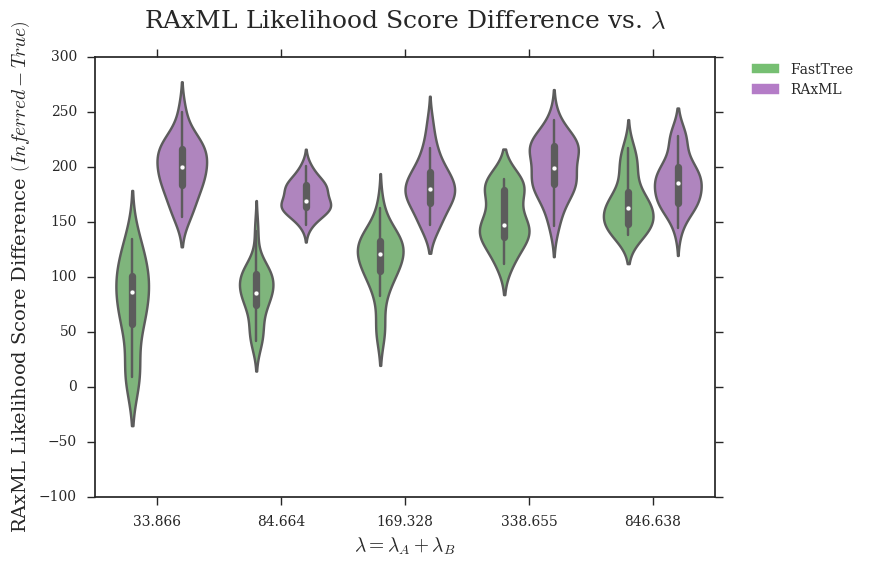
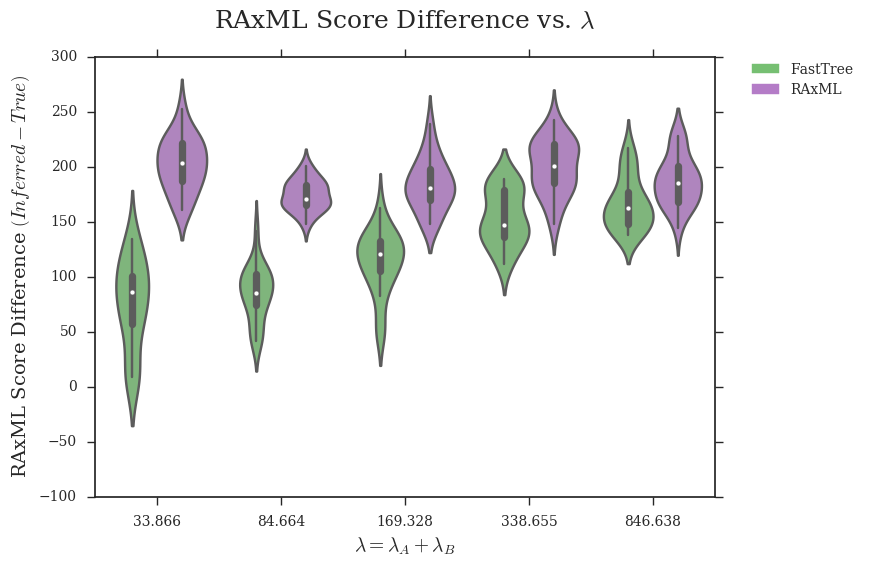
Updated RAxML Likelihood Score Deviation figures

diff --git a/figures/scripts/6_raxml-likelihood-deviation-vs-parameters.py b/figures/scripts/6_raxml-likelihood-deviation-vs-parameters.py
@@ -35,13 +35,21 @@ r_fasttree = {'r':np.array([-4]*20+[-3]*20+[-2]*20+[-1]*20+[0]*20), # values of 
                                [-80045.454382,-80691.369416,-77151.507529,-84483.376384,-78392.191461,-79755.328431,-76111.883486,-77798.040909,-84630.386992,-82338.517801,-82475.556949,-80995.341937,-78806.654744,-82782.442436,-82778.161703,-80263.010474,-81570.999846,-80845.823371,-80441.806887,-84458.295279]   # r = 1
              ).astype(float)}
 r_raxml    = {'r':np.array([-4]*20+[-3]*20+[-2]*20+[-1]*20+[0]*20), # values of r (log-scaled)
+              'score':np.array([-64721.118531,-64374.759635,-76751.227171,-72610.446826,-67594.413205,-57455.999083,-74447.766757,-57161.452022,-73559.603396,-63554.927398,-60768.286805,-75434.571043,-68836.895605,-66873.157844,-72310.605244,-64112.221652,-80655.075316,-83423.981678,-72083.686968,-62921.14995] +  # r = 0.0001
+                               [-70197.75659,-77672.788142,-74480.5435,-71220.830254,-82757.526842,-69038.2907,-68821.043778,-81837.156683,-69236.312505,-73632.042184,-75439.489958,-72318.280932,-79173.762461,-71202.972023,-66305.929894,-73388.038531,-65991.590621,-79191.490262,-77546.756299,-77974.196929] +      # r = 0.001
+                               [-80535.192689,-73708.555137,-75332.361563,-74363.440145,-75689.741194,-73647.046214,-77589.705993,-68823.151596,-71499.571642,-78178.398687,-75949.560934,-84141.145497,-74481.66217,-79535.633212,-73044.301514,-76489.717939,-73624.068722,-70395.752904,-75628.417073,-81903.404004] +  # r = 0.01
+                               [-79163.327471,-76877.435343,-79754.585095,-80945.659055,-76620.152123,-80705.572663,-77691.742937,-80921.987699,-83118.983772,-75333.03248,-81730.896906,-74455.106224,-77737.686571,-78947.331176,-74109.226138,-83140.986949,-78031.543064,-81133.10863,-74138.343013,-75970.671609] +   # r = 0.1
+                               [-80041.193787,-80679.089805,-77145.164752,-84475.727166,-78390.981748,-79752.291996,-76104.167932,-77791.669883,-84627.307431,-82329.920002,-82466.928424,-80987.146954,-78797.801663,-82779.995239,-82768.318115,-80255.160877,-81563.818961,-80843.583754,-80432.770488,-84453.658611]   # r = 1
+             ).astype(float)}
+''' # VALUES FROM ORIGINAL RAXML TREES
+r_raxml    = {'r':np.array([-4]*20+[-3]*20+[-2]*20+[-1]*20+[0]*20), # values of r (log-scaled)
               'score':np.array([-64721.123522,-64375.308287,-76753.16638,-72610.48708,-67594.68259,-57457.152769,-74448.298872,-57161.452933,-73559.726652,-63553.805094,-60768.778621,-75435.023477,-68837.252485,-66873.985752,-72311.386214,-64112.30155,-80656.405399,-83424.075889,-72084.048411,-62921.895435] +     # r = 0.0001
                                [-70198.908202,-77674.555776,-74482.185636,-71220.855048,-82756.81101,-69038.527378,-68821.517183,-81838.818829,-69236.778669,-73634.197678,-75439.87469,-72324.147845,-79173.911942,-71205.840826,-66306.337949,-73388.42564,-65992.910384,-79191.845619,-77547.584867,-77974.762763] +    # r = 0.001
                                [-80535.557878,-73709.223295,-75334.876586,-74364.00186,-75693.051161,-73647.04934,-77593.640422,-68823.667881,-71501.233427,-78180.634603,-75950.828564,-84141.871288,-74483.09165,-79536.665403,-73045.400995,-76491.495545,-73624.958121,-70396.163292,-75630.964197,-81905.377818] +    # r = 0.01
                                [-79165.853342,-76878.511177,-79754.732762,-80946.472116,-76620.272196,-80706.387436,-77692.609251,-80924.296321,-83119.187674,-75333.04282,-81730.900448,-74455.670464,-77738.742946,-78947.538768,-74109.486068,-83141.401584,-78032.315448,-81133.38351,-74142.241048,-75972.593998] +   # r = 0.1
                                [-80041.291094,-80679.097956,-77146.273308,-84475.955293,-78391.116292,-79752.310414,-76105.029005,-77792.020491,-84627.353748,-82330.094032,-82467.481243,-80987.659001,-78797.932904,-82780.043583,-82768.808954,-80255.213461,-81564.218094,-80843.851505,-80433.127156,-84453.686813]   # r = 1
              ).astype(float)}
-
+'''
 
 # modifying r = lambdaA/lambdaB (with constant lambda = lambdaA + lambdaB)
 r2_original = {'r':np.array([-4]*20+[-3]*20+[-2]*20+[-1]*20+[0]*20), # values of r (log-scaled)
@@ -59,12 +67,21 @@ r2_fasttree = {'r':np.array([-4]*20+[-3]*20+[-2]*20+[-1]*20+[0]*20), # values of
                                 [-21852.738817,-22907.328111,-22862.21704,-21128.228771,-22999.511221,-22637.67086,-21175.301628,-20593.212842,-22268.653821,-22283.529714,-22950.045663,-21860.162822,-22267.170094,-21853.311863,-22157.90734,-21892.851238,-22450.192316,-22280.072507,-21811.196995,-23555.628946]                          # r = 1
               ).astype(float)}
 r2_raxml    = {'r':np.array([-4]*20+[-3]*20+[-2]*20+[-1]*20+[0]*20), # values of r (log-scaled)
+               'score':np.array([-235574.741791,-249220.874747,-240638.447876,-238609.549095,-265516.697447,-246721.620519,-237464.350192,-235589.729779,-257556.012482,-250186.638542,-250470.247891,-239538.707691,-225549.414833,-231745.225374,-239917.56926,-260256.542401,-259022.367908,-225099.675647,-227206.98245,-233544.493987] +   # r = 0.0001
+                                [-135512.870199,-148569.683831,-153616.635783,-147979.178882,-151757.990618,-148382.101873,-144392.462023,-141407.571682,-155197.626815,-149286.610995,-163018.799323,-142453.61547,-139919.52801,-148068.460875,-140976.659163,-161010.157229,-141587.768279,-156459.791308,-149295.660669,-139265.744311] +   # r = 0.001
+                                [-80535.192689,-73708.555137,-75332.361563,-74363.440145,-75689.741194,-73647.046214,-77589.705993,-68823.151596,-71499.571642,-78178.398687,-75949.560934,-84141.145497,-74481.66217,-79535.633212,-73044.301514,-76489.717939,-73624.068722,-70395.752904,-75628.417073,-81903.404004] +                      # r = 0.01
+                                [-35763.119438,-32954.34694,-35793.695426,-33550.786635,-33558.806236,-32542.226895,-33699.236866,-35207.376367,-32282.648829,-33806.054587,-33332.956736,-37150.196243,-32407.699782,-35723.368844,-34690.343776,-34734.906041,-32841.618613,-33381.421215,-35889.948391,-34760.914439] +                      # r = 0.1
+                                [-21847.942429,-22905.408949,-22848.457282,-21126.413155,-23001.125475,-22639.385886,-21171.568869,-20593.213282,-22269.359852,-22278.964182,-22945.307356,-21852.783043,-22263.406008,-21851.436228,-22155.385409,-21888.75604,-22442.992448,-22276.462001,-21809.224968,-23552.572865]                        # r = 1
+              ).astype(float)}
+''' # VALUES FROM ORIGINAL RAXML TREES
+r2_raxml    = {'r':np.array([-4]*20+[-3]*20+[-2]*20+[-1]*20+[0]*20), # values of r (log-scaled)
                'score':np.array([-235580.946859,-249229.140054,-240641.432684,-238616.634205,-265524.222245,-246726.273561,-237468.393668,-235593.241418,-257562.957926,-250195.206504,-250478.523172,-239549.614943,-225552.719327,-231751.826368,-239922.620689,-260261.133918,-259024.463547,-225105.912546,-227212.282473,-233547.822149] + # r = 0.0001
                                 [-135514.92689,-148571.046519,-153620.648384,-147981.815493,-151760.858318,-148383.588188,-144395.187105,-141409.240367,-155200.186426,-149289.05166,-163022.3919,-142457.833496,-139923.479332,-148070.914016,-140979.687737,-161011.530126,-141588.990224,-156466.338382,-149298.311138,-139269.167583] +     # r = 0.001
                                 [-80535.557878,-73709.223295,-75334.876586,-74364.00186,-75693.051161,-73647.04934,-77593.640422,-68823.667881,-71501.233427,-78180.634603,-75950.828564,-84141.871288,-74483.09165,-79536.665403,-73045.400995,-76491.495545,-73624.958121,-70396.163292,-75630.964197,-81905.377818] +                        # r = 0.01
                                 [-35763.161165,-32954.35513,-35793.693671,-33550.787905,-33559.685265,-32543.011277,-33699.277179,-35207.757029,-32283.240177,-33807.0679,-33333.07508,-37150.412292,-32407.78614,-35724.737924,-34690.523234,-34734.907654,-32841.921015,-33382.304725,-35889.961281,-34761.915418] +                          # r = 0.1
                                 [-21847.942351,-22906.97689,-22848.456071,-21126.414125,-23001.260451,-22639.3986,-21172.096633,-20593.219783,-22269.359997,-22278.988994,-22945.30739,-21852.78637,-22263.405948,-21851.602449,-22155.154179,-21888.761449,-22442.997626,-22276.462972,-21809.225555,-23554.412751]                            # r = 1
               ).astype(float)}
+'''
 
 # modifying lambda = lambdaA + lambdaB
 l_original = {'lambda':np.array([33.866]*20+[84.664]*20+[169.328]*20+[338.655]*20+[846.638]*20),
@@ -82,12 +99,21 @@ l_fasttree = {'lambda':np.array([33.866]*20+[84.664]*20+[169.328]*20+[338.655]*2
                                [-21969.597168,-22185.350041,-20488.748016,-22631.716475,-19577.954954,-19765.430837,-19442.96796,-24007.38831,-22381.020646,-20602.304115,-21777.299401,-21336.907614,-21462.500201,-21922.608076,-20793.393126,-22875.233393,-22124.615336,-20217.198626,-20517.313612,-20886.05985]                         # lambda = 846.63757726278155
              ).astype(float)}
 l_raxml    = {'lambda':np.array([33.866]*20+[84.664]*20+[169.328]*20+[338.655]*20+[846.638]*20),
+              'score':np.array([-203993.020891,-201087.316648,-198664.078499,-199650.983396,-205005.222684,-205648.13277,-194145.718224,-190256.978101,-192658.431862,-206450.731509,-206339.681145,-211571.876787,-205056.5885,-198981.450273,-202880.523446,-200739.968871,-194156.64421,-198863.777106,-187504.943736,-196550.430048] +    # lambda = 33.86550309051126
+                               [-120167.239906,-119761.157032,-126437.913559,-118004.867763,-125959.217572,-116775.671904,-122495.224275,-114427.638488,-110832.230156,-116383.844299,-132126.301333,-115495.062155,-118311.036137,-117835.929504,-111514.767388,-123678.213696,-130879.53155,-119744.047589,-110866.243906,-112939.771928] + # lambda = 84.66375772627816
+                               [-80535.192689,-73708.555137,-75332.361563,-74363.440145,-75689.741194,-73647.046214,-77589.705993,-68823.151596,-71499.571642,-78178.398687,-75949.560934,-84141.145497,-74481.66217,-79535.633212,-73044.301514,-76489.717939,-73624.068722,-70395.752904,-75628.417073,-81903.404004] +                     # lambda = 169.32751545255631
+                               [-44730.693262,-43524.307496,-46612.867574,-48254.073328,-47867.153974,-45145.872914,-43291.631825,-39919.655429,-44657.93738,-43251.943713,-38595.56485,-45694.685785,-42147.851569,-44364.93605,-43425.168599,-43512.864624,-44180.620174,-40299.432238,-44480.88418,-43760.745733] +                        # lambda = 338.65503090511262
+                               [-21943.84095,-22156.599184,-20461.434763,-22616.728793,-19559.27898,-19751.912801,-19433.692035,-23970.426676,-22374.749785,-20581.172189,-21772.342652,-21315.970961,-21442.802081,-21900.026161,-20769.191062,-22834.579202,-22086.846738,-20210.554136,-20504.872966,-20869.928059]                        # lambda = 846.63757726278155
+             ).astype(float)}
+''' # VALUES FROM ORIGINAL RAXML TREES
+l_raxml    = {'lambda':np.array([33.866]*20+[84.664]*20+[169.328]*20+[338.655]*20+[846.638]*20),
               'score':np.array([-203995.742781,-201092.162149,-198666.380373,-199657.368266,-205009.918424,-205652.933685,-194150.337095,-190262.259673,-192663.422418,-206454.380628,-206341.689778,-211573.962691,-205060.130296,-198987.365255,-202883.48317,-200741.461655,-194160.899977,-198864.764613,-187510.577368,-196552.518186] + # lambda = 33.86550309051126
                                [-120167.990367,-119763.004838,-126441.167923,-118006.867297,-125962.580048,-116779.1658,-122497.452798,-114429.121436,-110832.537675,-116384.517135,-132129.364892,-115497.263062,-118313.98356,-117836.333433,-111518.088573,-123679.007989,-130882.633152,-119745.802142,-110867.016279,-112944.486125] +   # lambda = 84.66375772627816
                                [-80535.557878,-73709.223295,-75334.876586,-74364.00186,-75693.051161,-73647.04934,-77593.640422,-68823.667881,-71501.233427,-78180.634603,-75950.828564,-84141.871288,-74483.09165,-79536.665403,-73045.400995,-76491.495545,-73624.958121,-70396.163292,-75630.964197,-81905.377818] +                       # lambda = 169.32751545255631
                                [-44730.829066,-43524.818528,-46613.657435,-48255.790227,-47867.621534,-45146.284118,-43292.71421,-39919.739712,-44658.02566,-43253.315939,-38597.345364,-45695.480357,-42147.854432,-44365.446,-43426.940668,-43512.865958,-44181.699209,-40301.076397,-44481.769691,-43762.045056] +                         # lambda = 338.65503090511262
                                [-21943.832013,-22156.597311,-20461.434712,-22616.779686,-19559.280914,-19752.825988,-19433.692144,-23970.42703,-22375.417575,-20582.002617,-21772.342883,-21316.757901,-21442.822396,-21900.092169,-20769.866547,-22834.580211,-22086.845609,-20210.613638,-20505.260955,-20870.340831]                       # lambda = 846.63757726278155
              ).astype(float)}
+'''
 
 # modifying sequence length
 k_original = {'length':np.array([50]*20+[100]*20+[200]*20+[300]*20+[600]*20+[1200]*20+[2400]*20+[4800]*20), # values of length
@@ -111,6 +137,17 @@ k_fasttree = {'length':np.array([50]*20+[100]*20+[200]*20+[300]*20+[600]*20+[120
                                [-1392793.72027,-1261542.24155,-1168701.58399,-1242810.07221,-1200801.06248,-1195101.92996,-1187681.18502,-1184817.6489,-1294296.50954,-1081752.17972,-1165613.03877,-1238809.01812,-1153606.56435,-1172902.31442,-1135726.76105,-1144371.88283,-1281647.56296,-1237318.9273,-1237589.12818,-1228858.89185]     # length = 4800
              ).astype(float)}
 k_raxml    = {'length':np.array([50]*20+[100]*20+[200]*20+[300]*20+[600]*20+[1200]*20+[2400]*20+[4800]*20), # values of length
+              'score':np.array([-11344.047048,-11442.660455,-11522.236566,-11614.701737,-9773.268187,-12047.023895,-10996.257751,-10464.102248,-12256.139527,-11123.356983,-11001.349919,-10628.363656,-11244.257187,-10823.189209,-11592.481667,-11098.660735,-11739.912416,-12244.419075,-12435.765318,-11275.844673] +                      # length = 50
+                               [-21863.499018,-24507.842067,-23656.63399,-23666.54028,-24282.774609,-23856.920092,-22866.945254,-26213.941671,-23651.33114,-21088.363891,-24978.860234,-21189.347169,-23696.21736,-23025.03517,-24378.404536,-25179.168475,-24744.331518,-24461.812871,-23644.969585,-22525.211865] +                          # length = 100
+                               [-50431.859782,-49313.398969,-49933.944281,-52782.043453,-48630.586443,-53788.768665,-45270.301834,-48720.274853,-50212.849392,-45836.056055,-50134.868194,-52088.023281,-47945.920479,-49643.871352,-48479.717555,-53724.491994,-48512.946906,-51115.108569,-46363.873721,-48308.972982] +                     # length = 200
+                               [-80535.192689,-73708.555137,-75332.361563,-74363.440145,-75689.741194,-73647.046214,-77589.705993,-68823.151596,-71499.571642,-78178.398687,-75949.560934,-84141.145497,-74481.66217,-79535.633212,-73044.301514,-76489.717939,-73624.068722,-70395.752904,-75628.417073,-81903.404004] +                      # length = 300
+                               [-154663.905342,-143631.407744,-158508.178585,-163724.962096,-151033.499394,-147893.487771,-149743.010901,-135108.352473,-150422.799607,-149884.694121,-154767.641565,-150860.368728,-145884.105638,-150905.766125,-156629.306914,-153885.244028,-149515.190182,-148861.980518,-158849.288002,-161087.695383] + # length = 600
+                               [-311323.38284,-294152.839453,-291303.091466,-283690.055631,-301827.147383,-311455.80227,-297106.96555,-304025.644497,-297115.995018,-315534.863742,-321594.801501,-312956.186824,-296858.587772,-315519.222298,-301062.662325,-279603.788508,-303916.19956,-304927.142155,-314049.834853,-310093.403099] +     # length = 1200
+                               [-619471.372422,-624897.630666,-573996.698323,-559466.37168,-603842.618681,-602742.240624,-586019.861163,-584141.94988,-636530.146577,-604831.769545,-617158.478585,-557431.790793,-650256.959929,-609206.394568,-590620.243241,-612311.160347,-574477.533539,-636033.069045,-601752.29391,-569602.651538] +    # length = 2400
+                               [-1392793.12715,-1261535.93573,-1168694.66344,-1242783.38836,-1200799.89699,-1195094.68449,-1187677.6558,-1184807.28012,-1294279.24867,-1081736.4748,-1165605.82221,-1238789.12386,-1153599.66841,-1172888.10098,-1135713.01726,-1144369.25804,-1281624.23092,-1237314.17357,-1237586.38507,-1228832.67854]     # length = 4800
+             ).astype(float)}
+''' # VALUES FROM ORIGINAL RAXML TREES
+k_raxml    = {'length':np.array([50]*20+[100]*20+[200]*20+[300]*20+[600]*20+[1200]*20+[2400]*20+[4800]*20), # values of length
               'score':np.array([-11344.047107,-11443.710028,-11521.888858,-11614.842929,-9772.126082,-12046.946716,-10996.88477,-10464.486741,-12255.939373,-11125.388915,-11001.501214,-10627.491293,-11244.217887,-10823.436865,-11592.591271,-11098.660509,-11738.749024,-12244.439222,-12436.079991,-11278.001791] +                       # length = 50
                                [-21865.033019,-24510.990737,-23658.452346,-23660.804788,-24282.483943,-23856.979865,-22866.9545,-26214.078363,-23651.186237,-21088.369596,-24978.806451,-21189.401858,-23696.337128,-23026.480471,-24379.113953,-25178.975096,-24745.02443,-24462.990913,-23644.970083,-22525.368442] +                        # length = 100
                                [-50433.280784,-49314.483237,-49934.15518,-52783.2709,-48631.296591,-53789.687323,-45271.680078,-48720.763577,-50213.264673,-45836.352094,-50136.328368,-52089.325327,-47946.070484,-49644.138498,-48480.378622,-53725.296491,-48513.524184,-51116.149191,-46366.14117,-48309.076222] +                         # length = 200
@@ -120,6 +157,7 @@ k_raxml    = {'length':np.array([50]*20+[100]*20+[200]*20+[300]*20+[600]*20+[120
                                [-619474.614217,-624900.475253,-573997.664608,-559474.713199,-603845.624432,-602744.839988,-586022.474184,-584148.782609,-636537.104312,-604840.547649,-617167.856386,-557436.679361,-650265.925332,-609209.392736,-590627.504433,-612313.321301,-574480.189542,-636034.461169,-601756.498862,-569605.864631] + # length = 2400
                                [-1392802.91764,-1261542.98522,-1168698.40735,-1242787.76763,-1200803.57245,-1195099.50114,-1187681.97171,-1184811.74691,-1294288.2022,-1081743.3261,-1165620.7669,-1238790.06061,-1153608.18857,-1172898.37274,-1135714.78391,-1144371.6505,-1281630.05009,-1237322.8739,-1237589.92356,-1228838.82983]        # length = 4800
              ).astype(float)}
+'''
 
 # modifying deviation from ultrametricity
 g_original = {'gammarate':np.array([2.952]*20+[5.904]*20+[29.518]*20+[147.591]*20+[295.182]*20+[float('inf')]*20),
@@ -139,6 +177,15 @@ g_fasttree = {'gammarate':np.array([2.952]*20+[5.904]*20+[29.518]*20+[147.591]*2
                                [-74913.829411,-74921.305095,-79867.627223,-72338.323072,-74979.38247,-78283.509404,-74301.538401,-73879.729313,-79684.64058,-67772.8561,-74596.780493,-78290.868303,-74496.363218,-73253.96772,-79315.987446,-75357.835105,-79934.470496,-66834.873871,-79643.41416,-77066.064235]         # gamma = infinity
              ).astype(float)}
 g_raxml    = {'gammarate':np.array([2.952]*20+[5.904]*20+[29.518]*20+[147.591]*20+[295.182]*20+[float('inf')]*20),
+              'score':np.array([-69281.550782,-70927.439609,-68977.194444,-70158.267336,-69763.552462,-77819.143633,-68789.166026,-71235.787677,-72371.744631,-70045.719234,-64521.799528,-70514.73134,-68916.709848,-68939.847347,-78647.040095,-68331.70456,-72471.359566,-73909.923919,-70998.217878,-67110.445351] +   # gamma = 2.95181735298926
+                               [-71035.122286,-73485.395459,-77271.259487,-75811.339897,-76913.13294,-65941.729788,-72084.078681,-71568.243121,-81127.882406,-76171.374418,-69954.908347,-71954.435787,-71512.372923,-81501.071234,-78004.739908,-76271.02909,-70811.406063,-72120.612346,-73111.484883,-74912.064778] +   # gamma = 5.90363470597852
+                               [-80535.192689,-73708.555137,-75332.361563,-74363.440145,-75689.741194,-73647.046214,-77589.705993,-68823.151596,-71499.571642,-78178.398687,-75949.560934,-84141.145497,-74481.66217,-79535.633212,-73044.301514,-76489.717939,-73624.068722,-70395.752904,-75628.417073,-81903.404004] +  # gamma = 29.518173529892621
+                               [-71636.295963,-76021.681354,-70160.594858,-73994.810347,-75361.19572,-77258.115507,-76485.381979,-72383.374838,-76518.557713,-75192.694056,-71732.902973,-73876.081837,-71072.751397,-82751.401772,-70980.152569,-76108.026956,-78575.354909,-70922.634075,-76002.260227,-78375.616947] +  # gamma = 147.590867649463
+                               [-71056.616462,-75099.807973,-73287.099879,-78802.49568,-76895.883042,-75060.225868,-75672.687481,-74868.444427,-72159.030741,-75426.770368,-75216.015495,-73351.919669,-71823.748041,-71438.463368,-72246.702954,-79687.707027,-73840.095743,-69992.264909,-78682.77845,-73081.858209] +   # gamma = 295.181735298926
+                               [-74855.0668,-74872.663854,-79802.082086,-72253.816097,-74917.99413,-78223.010422,-74249.563659,-73845.208475,-79619.875835,-67716.072744,-74546.83264,-78198.458195,-74438.5241,-73176.347708,-79227.524504,-75283.4066,-79822.202316,-66776.430099,-79584.27865,-76972.933281]            # gamma = infinity
+             ).astype(float)}
+''' # VALUES FROM ORIGINAL RAXML TREES
+g_raxml    = {'gammarate':np.array([2.952]*20+[5.904]*20+[29.518]*20+[147.591]*20+[295.182]*20+[float('inf')]*20),
               'score':np.array([-69282.751583,-70928.004495,-68978.694437,-70158.563299,-69763.814181,-77819.166669,-68792.056337,-71237.84944,-72372.770861,-70045.956835,-64521.523163,-70515.758914,-68918.664415,-68941.191078,-78652.40526,-68332.573368,-72471.638421,-73910.227114,-70999.9454,-67111.29545] +      # gamma = 2.95181735298926
                                [-71036.023807,-73485.970756,-77274.71672,-75811.363084,-76914.477223,-65944.34246,-72087.315613,-71568.456177,-81128.450638,-76172.860103,-69955.745329,-71954.487768,-71513.898287,-81502.728144,-78005.022316,-76271.89057,-70812.276675,-72120.941761,-73112.94888,-74913.546976] +     # gamma = 5.90363470597852
                                [-80535.557878,-73709.223295,-75334.876586,-74364.00186,-75693.051161,-73647.04934,-77593.640422,-68823.667881,-71501.233427,-78180.634603,-75950.828564,-84141.871288,-74483.09165,-79536.665403,-73045.400995,-76491.495545,-73624.958121,-70396.163292,-75630.964197,-81905.377818] +    # gamma = 29.518173529892621
@@ -146,6 +193,7 @@ g_raxml    = {'gammarate':np.array([2.952]*20+[5.904]*20+[29.518]*20+[147.591]*2
                                [-71058.502363,-75100.518668,-73288.285029,-78804.183744,-76897.334195,-75060.482987,-75673.947569,-74868.992215,-72159.961245,-75426.864197,-75217.268842,-73352.945042,-71826.596587,-71440.299117,-72247.885816,-79688.551592,-73840.338055,-69993.886605,-78684.38724,-73082.35793] +   # gamma = 295.181735298926
                                [-74856.219982,-74873.878053,-79806.18505,-72255.20096,-74918.259718,-78225.023354,-74251.282244,-73845.322323,-79620.261825,-67717.260232,-74547.991928,-78199.163566,-74439.159982,-73177.616784,-79229.17756,-75284.8596,-79825.570507,-66776.901486,-79586.526602,-76974.514182]        # gamma = infinity
              ).astype(float)}
+'''
 
 # plot RAxML Likelihood Score Difference vs. r (with different lambda = lambdaA+lambdaB to keep expected branch length constant)
 fig = plt.figure()
@@ -164,8 +212,8 @@ df = pd.DataFrame(df)
 ax = sns.violinplot(x='r',y='score',hue='category',data=df,order=x,palette=pal)
 legend = plt.legend(handles=handles,bbox_to_anchor=(1.05, 1), loc=2, borderaxespad=0.)
 sns.plt.xlabel(r'$\log_{10}{r} = \log_{10}{\left(\frac{\lambda_A}{\lambda_B}\right)}\ \left(E(l_b)=0.298\right)$',fontsize=14)
-sns.plt.ylabel(r'RAxML Likelihood Score Difference $\left(Inferred-True\right)$',fontsize=14)
-sns.plt.title(r'RAxML Likelihood Score Difference vs. $\log_{10}{r}\ \left(E(l_b)=0.298\right)$',fontsize=18,y=1.05)
+sns.plt.ylabel(r'RAxML Score Difference $\left(Inferred-True\right)$',fontsize=14)
+sns.plt.title(r'RAxML Score Difference vs. $\log_{10}{r}\ \left(E(l_b)=0.298\right)$',fontsize=18,y=1.05)
 sns.plt.show()
 fig.savefig('raxml-likelihood-difference_vs_r_const-exp-branch-length.png', bbox_inches='tight')
 plt.close()
@@ -187,8 +235,8 @@ df = pd.DataFrame(df)
 ax = sns.violinplot(x='r',y='score',hue='category',data=df,order=x,palette=pal)
 legend = plt.legend(handles=handles,bbox_to_anchor=(1.05, 1), loc=2, borderaxespad=0.)
 sns.plt.xlabel(r'$\log_{10}{r} = \log_{10}{\left(\frac{\lambda_A}{\lambda_B}\right)}\ \left(\lambda = \lambda_A + \lambda_B = 169\right)$',fontsize=14)
-sns.plt.ylabel(r'RAxML Likelihood Score Difference $\left(Inferred-True\right)$',fontsize=14)
-sns.plt.title(r'RAxML Likelihood Score Difference vs. $\log_{10}{r}\ \left(\lambda=\lambda_A+\lambda_B=169\right)$',fontsize=18,y=1.05)
+sns.plt.ylabel(r'RAxML Score Difference $\left(Inferred-True\right)$',fontsize=14)
+sns.plt.title(r'RAxML Score Difference vs. $\log_{10}{r}\ \left(\lambda=\lambda_A+\lambda_B=169\right)$',fontsize=18,y=1.05)
 sns.plt.show()
 fig.savefig('raxml-likelihood-difference_vs_r_const-lambda.png', bbox_inches='tight')
 plt.close()
@@ -210,8 +258,8 @@ df = pd.DataFrame(df)
 ax = sns.violinplot(x='lambda',y='score',hue='category',data=df,order=x,palette=pal)
 legend = plt.legend(handles=handles,bbox_to_anchor=(1.05, 1), loc=2, borderaxespad=0.)
 sns.plt.xlabel(r'$\lambda = \lambda_A + \lambda_B$',fontsize=14)
-sns.plt.ylabel(r'RAxML Likelihood Score Difference $\left(Inferred-True\right)$',fontsize=14)
-sns.plt.title(r'RAxML Likelihood Score Difference vs. $\lambda$',fontsize=18,y=1.05)
+sns.plt.ylabel(r'RAxML Score Difference $\left(Inferred-True\right)$',fontsize=14)
+sns.plt.title(r'RAxML Score Difference vs. $\lambda$',fontsize=18,y=1.05)
 sns.plt.show()
 fig.savefig('raxml-likelihood-difference_vs_lambda.png', bbox_inches='tight')
 plt.close()
@@ -233,8 +281,8 @@ df = pd.DataFrame(df)
 ax = sns.violinplot(x='length',y='score',hue='category',data=df,order=x,palette=pal)
 legend = plt.legend(handles=handles,bbox_to_anchor=(1.05, 1), loc=2, borderaxespad=0.)
 sns.plt.xlabel('Sequence Length',fontsize=14)
-sns.plt.ylabel(r'RAxML Likelihood Score Difference $\left(Inferred-True\right)$',fontsize=14)
-sns.plt.title('RAxML Likelihood Score Difference vs. Sequence Length',fontsize=18,y=1.05)
+sns.plt.ylabel(r'RAxML Score Difference $\left(Inferred-True\right)$',fontsize=14)
+sns.plt.title('RAxML Score Difference vs. Sequence Length',fontsize=18,y=1.05)
 sns.plt.show()
 fig.savefig('raxml-likelihood-difference_vs_length.png', bbox_inches='tight')
 plt.close()
@@ -256,8 +304,8 @@ df = pd.DataFrame(df)
 ax = sns.violinplot(x='gammarate',y='score',hue='category',data=df,order=x,palette=pal)
 legend = plt.legend(handles=handles,bbox_to_anchor=(1.05, 1), loc=2, borderaxespad=0.)
 sns.plt.xlabel(r'Gamma Distribution Rate $\left(\alpha\right)$',fontsize=14)
-sns.plt.ylabel(r'RAxML Likelihood Score Difference $\left(Inferred-True\right)$',fontsize=14)
-sns.plt.title('RAxML Likelihood Score Difference vs. Deviation from Ultrametricity',fontsize=18,y=1.05)
+sns.plt.ylabel(r'RAxML Score Difference $\left(Inferred-True\right)$',fontsize=14)
+sns.plt.title('RAxML Score Difference vs. Deviation from Ultrametricity',fontsize=18,y=1.05)
 sns.plt.show()
 fig.savefig('raxml-likelihood-difference_vs_gammarate.png', bbox_inches='tight')
 plt.close()
